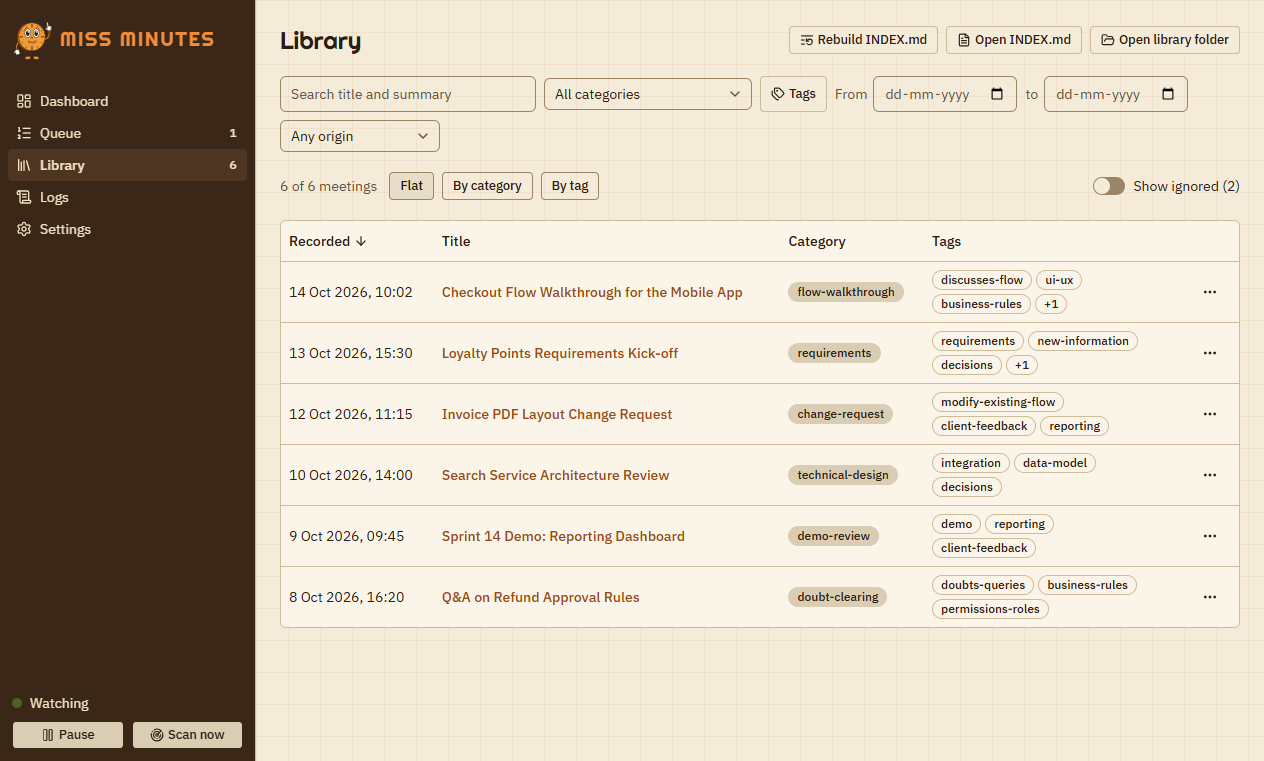
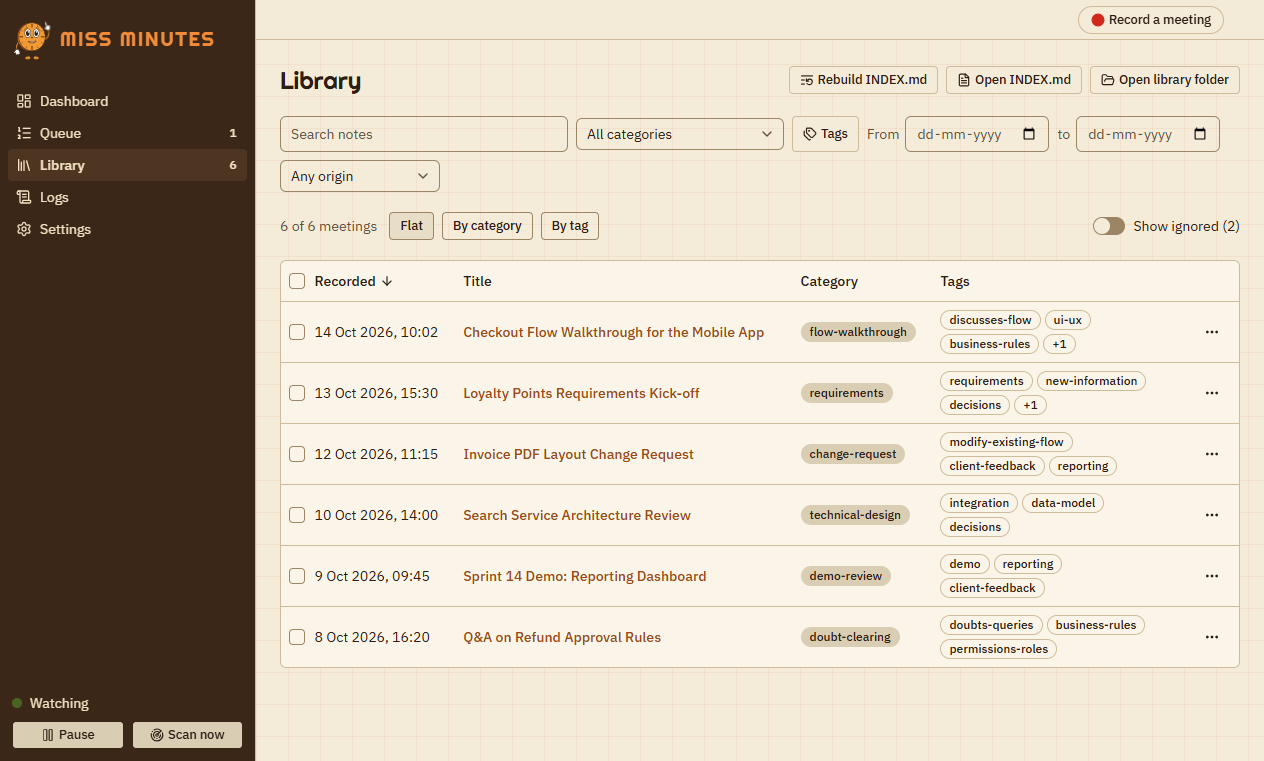
README: highlights and screenshots of in-app recording
A Highlights list after the intro, and fresh screenshots from the demo
library: the header Record button on every page, the recording picker,
recording in progress, the floating REC toolbar, Settings -> Recording and
the delete dialog.

diff --git a/README.md b/README.md
@@ -6,6 +6,16 @@ Miss Minutes turns your meeting recordings into searchable meeting notes, automa
 
 Record the meeting from Miss Minutes itself, or with any recorder you already use (for example OBS): it watches the folder your recordings are saved to. Each new recording is compressed, uploaded to Google AI Studio and turned into a Markdown note with an overview, topics, decisions, action items and diagrams. The note is then filed in your library by category and tags. Everything runs on your own PC, in the background, from the system tray.
 
+## Highlights
+
+- **Built-in meeting recorder.** Record any screen or window with the call's audio and your mic, no OBS needed. Start from the header, the tray or **Ctrl+Alt+R**; mute your mic mid-meeting with **Ctrl+Alt+M**.
+- **Floating REC toolbar.** While you're in Zoom, Teams or Meet, a small always-on-top pill shows the time with **Mute** and **Stop**. It stays out of the recording itself.
+- **Meeting notes, automatically.** Every recording (made in the app, by OBS or dropped in) is compressed and turned by Gemini into a Markdown note: overview, topics, decisions, action items and diagrams. Timestamps in the note play the recording from that moment.
+- **An organised library.** Notes are filed by category and tags. Filter, group, edit, reprocess, or delete meetings (one or many at once, to the Recycle Bin).
+- **Search your notes.** Full-text search, plus optional smart search by meaning that runs entirely on your PC.
+- **Runs quietly in the background.** From the system tray, starting with Windows: failures are retried, and a notification tells you when notes are ready.
+- **Your data stays yours.** The library lives on your PC; recordings are only sent to your own Google AI Studio account to write the notes.
+
 ![Dashboard](docs/images/dashboard.png)
 
 ---
@@ -122,9 +132,13 @@ If a video is being processed when you quit, Miss Minutes asks first. That video
 
 You don't need OBS: Miss Minutes can record the meeting itself.
 
+![Choosing what to record](docs/images/recording-picker.png)
+
 1. Click **Record a meeting** in the header at the top right of every page, choose **Start recording…** in the tray menu, or press **Ctrl+Alt+R** from any app.
 2. Pick the screen or window to record, whether to record the **system audio** (the other people in the call), and your **microphone**. Your last choice is preselected.
 3. **Start recording.** A red **REC 00:12** pill shows in the header, next to what is being recorded, and the tray icon turns red, with the elapsed time in its tooltip. You can close the window: recording carries on in the tray.
+
+   ![Recording in progress](docs/images/recording.png)
 4. Stop with **Stop** in the header, the tray's **Stop recording**, or **Ctrl+Alt+R** again.
 
 **Mute your mic** without stopping: **Mute** in the header, **Mute microphone** in the tray, or **Ctrl+Alt+M**. Only the mic is silenced in the recording; the screen and the call's audio keep recording. It doesn't mute you in Zoom or Teams (and muting there doesn't mute the recording).
@@ -132,6 +146,8 @@ You don't need OBS: Miss Minutes can record the meeting itself.
 The recording is saved as an MP4 in your recordings folder (named like `2026-10-19 14-03-27.mp4`, like OBS does) and goes to the front of the queue. From there it is compressed and turned into notes like any other recording.
 
 - **Floating toolbar.** While recording, a small red **REC** pill with **Mute** and **Stop** floats on top of your meeting app whenever Miss Minutes isn't the window in front (top centre of the screen at first; drag it anywhere and it stays there). It is left out of the recording itself. Turn it off in **Settings → Recording**.
+
+  ![Floating recording toolbar](docs/images/recording-toolbar.png)
 - **Use headphones.** Through speakers, the other people are recorded twice (by the system audio and by the mic).
 - If Windows blocks the microphone, or the system audio can't be captured, the recording still runs with what is available and the header says what is missing.
 - If the recorded window is closed, or the drive is almost full, the recording stops and is saved by itself.
@@ -172,6 +188,8 @@ All your meetings. You can:
 - **Delete the note and the video:** the recording and its compressed copy go too, and the meeting leaves the library.
 
 Everything deleted goes to the Windows **Recycle Bin**, so you can restore it from there.
+
+![Deleting a meeting](docs/images/delete-meeting.png)
 
 The buttons at the top rebuild or open `INDEX.md` (a Markdown table of contents of all your notes) and open the library folder.
 
@@ -223,6 +241,8 @@ The live engine log, with search and tag filters. This is the first place to loo
 - **Health:** shows whether the engine, HandBrake, Chrome, the watch folder and the Google session are OK.
 - **Watching:** the recordings folder, scan interval, settle time and the maximum number of attempts.
 - **Recording:** the start/stop and mute shortcuts (**Change**, **Reset**, **Turn off**), and the floating toolbar on/off. It takes effect right away; a shortcut another app already uses is refused.
+
+  ![Recording settings](docs/images/settings-recording.png)
 - **Compression:** HandBrake preset, encoder and quality. A higher RF gives smaller files.
 - **Google account:** see [below](#google-account).
 - **AI Studio:** the model, a fallback model, thinking level, language, retries and timeouts.
